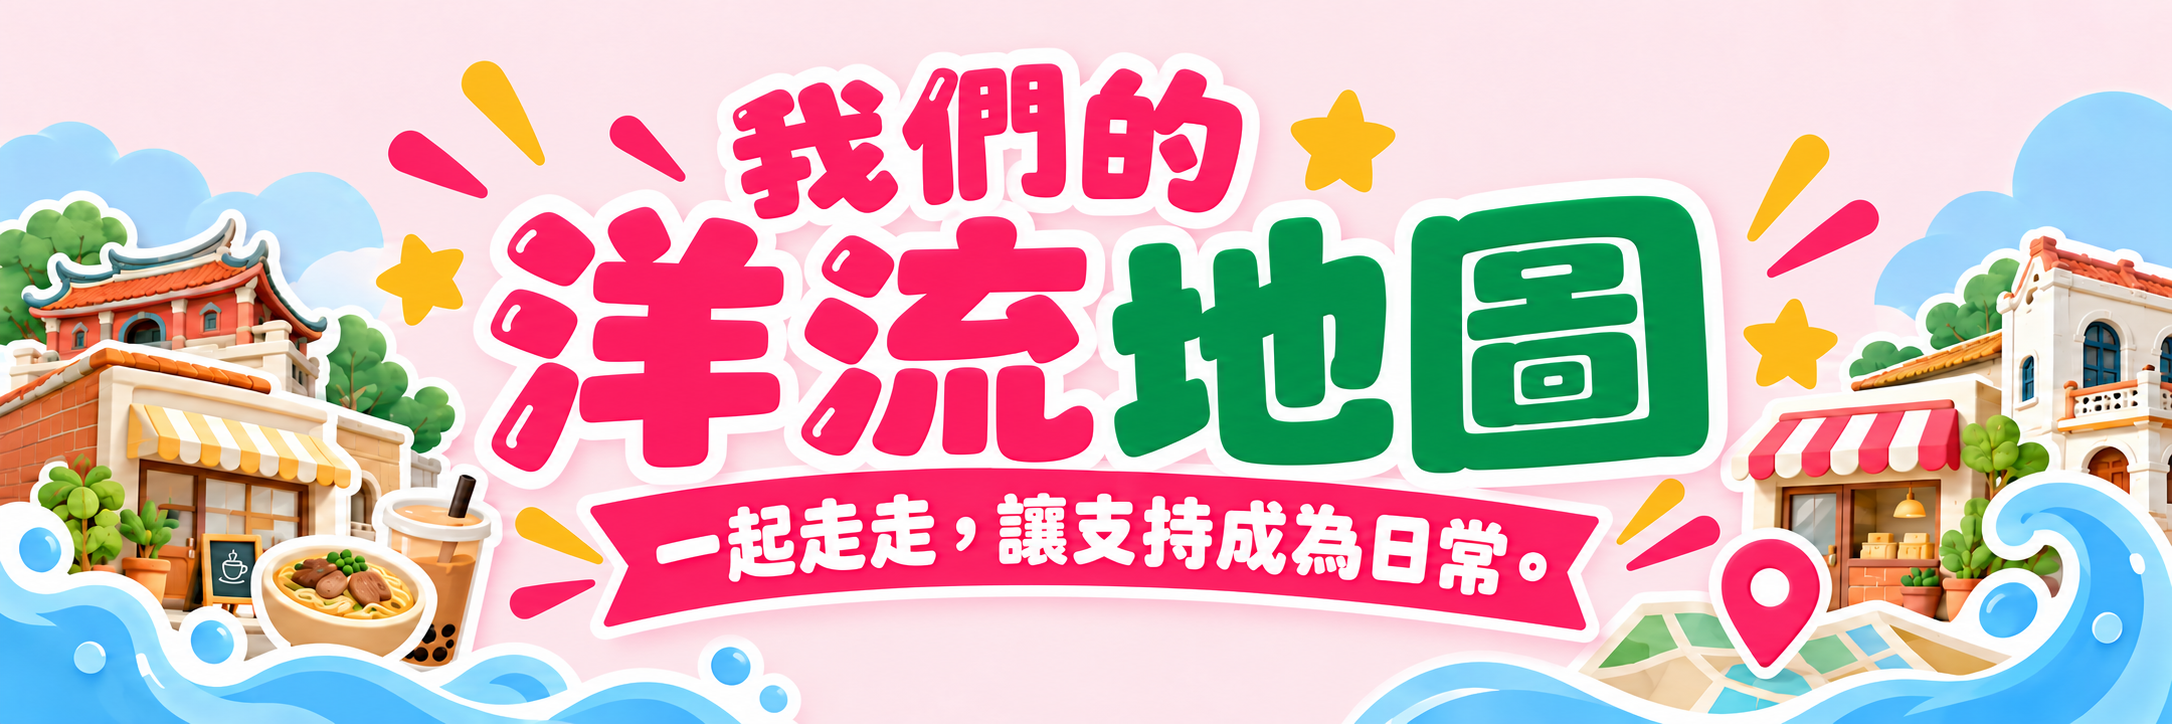
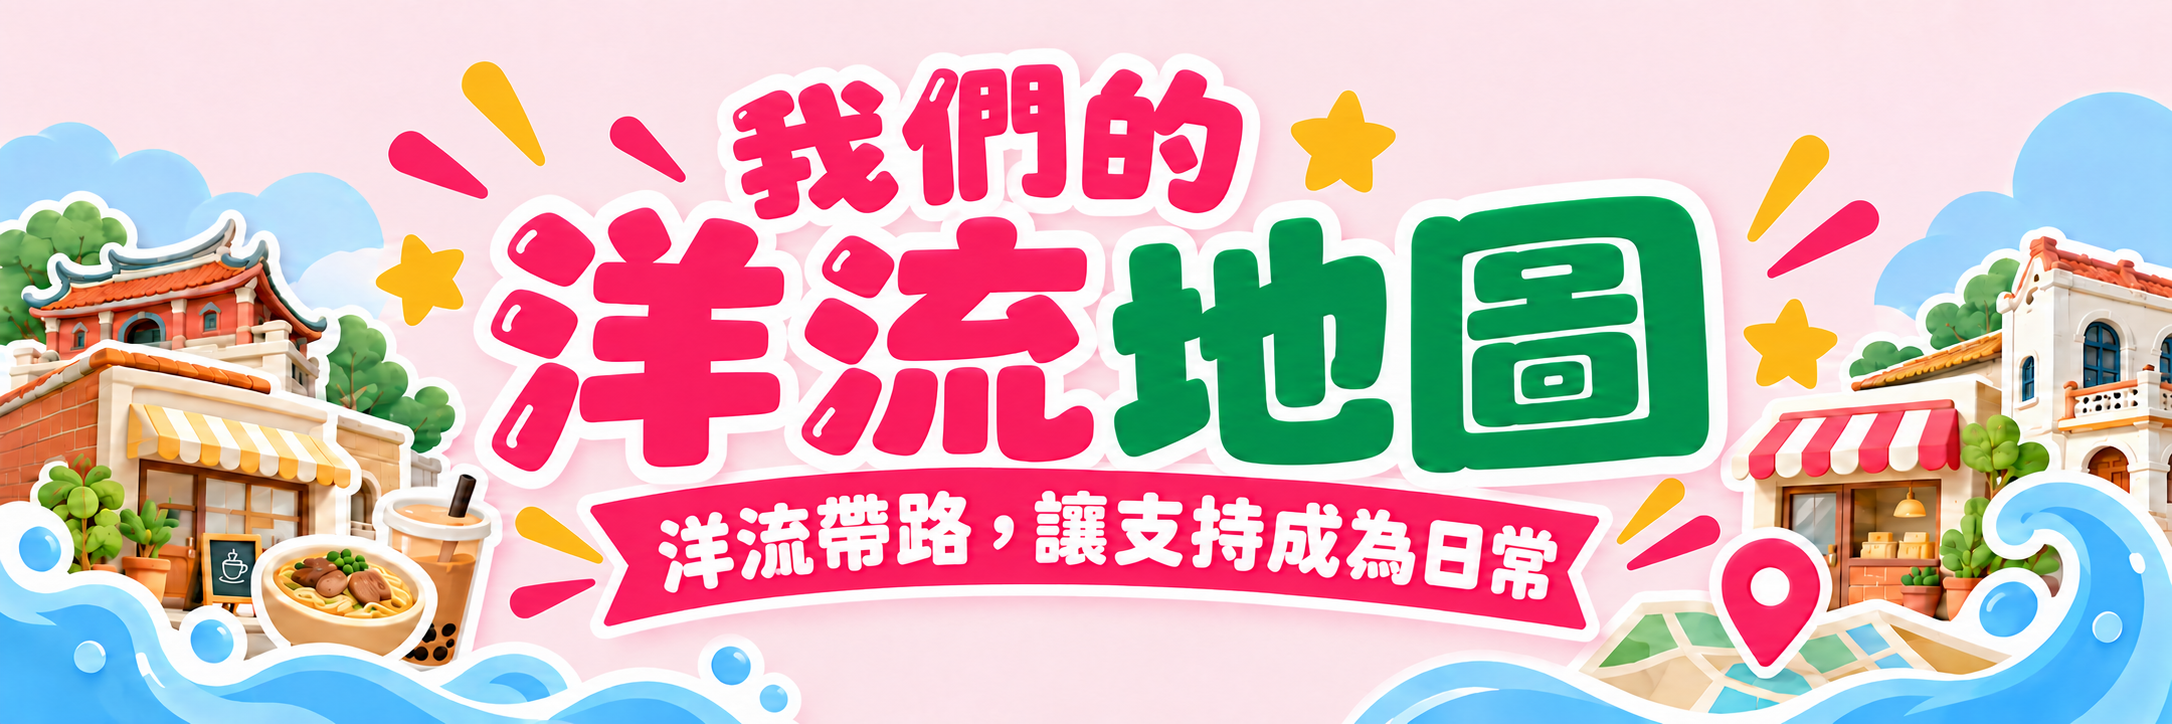
Update ocean map hero tagline

diff --git a/public/puma_oshen_wave/index.html b/public/puma_oshen_wave/index.html
@@ -12,11 +12,11 @@
 <meta property="og:title" content="我們的洋流地圖｜一起走走，讓支持成為日常。">
 <meta property="og:description" content="我們的洋流地圖，一起走走，讓支持成為日常。喝杯咖啡、吃頓飯，或到一家小店逛逛。打開地圖，找找今天想去的地方。">
 <meta property="og:url" content="https://minicourse.dev/puma_oshen_wave/">
-<meta property="og:image" content="https://minicourse.dev/puma_oshen_wave/assets/our-ocean-map-hero.png">
+<meta property="og:image" content="https://minicourse.dev/puma_oshen_wave/assets/our-ocean-map-hero.png?v=20261025-ocean-guide">
 <meta property="og:image:type" content="image/png">
 <meta property="og:image:width" content="2172">
 <meta property="og:image:height" content="724">
-<meta property="og:image:alt" content="我們的洋流地圖 — 一起走走，讓支持成為日常。">
+<meta property="og:image:alt" content="我們的洋流地圖 — 洋流帶路，讓支持成為日常">
 <link rel="stylesheet" href="./vendor/leaflet/leaflet.css"><script defer src="./vendor/leaflet/leaflet.js"></script>
 <link rel="stylesheet" href="./style.css?v=20261025-marker-legend"><script type="module" src="./app.js?v=20261025-marker-legend"></script>
 </head>
@@ -30,7 +30,7 @@
 <div id="shops-directory">
 <section class="title-scene imagegen-hero" aria-labelledby="page-title">
   <div class="hero-banner">
-  <h1 id="page-title" class="hero-art"><img src="./assets/our-ocean-map-hero.webp" width="1280" height="427" alt="我們的洋流地圖 — 一起走走，讓支持成為日常。" fetchpriority="high"></h1>
+  <h1 id="page-title" class="hero-art"><img src="./assets/our-ocean-map-hero.webp?v=20261025-ocean-guide" width="1280" height="427" alt="我們的洋流地圖 — 洋流帶路，讓支持成為日常" fetchpriority="high"></h1>
   <div class="hero-actions"><button type="button" id="share-open" aria-haspopup="dialog" aria-controls="share-dialog">分享給朋友</button><a id="join-map" href="https://forms.gle/1M9SYBFmCK5YQ57w7" target="_blank" rel="noopener noreferrer">加入地圖</a><a id="recommend-map" href="https://forms.gle/K6WHW1phbSmUtKmb6" target="_blank" rel="noopener noreferrer">推薦加入</a></div>
   </div>
   <div class="page-intro">
